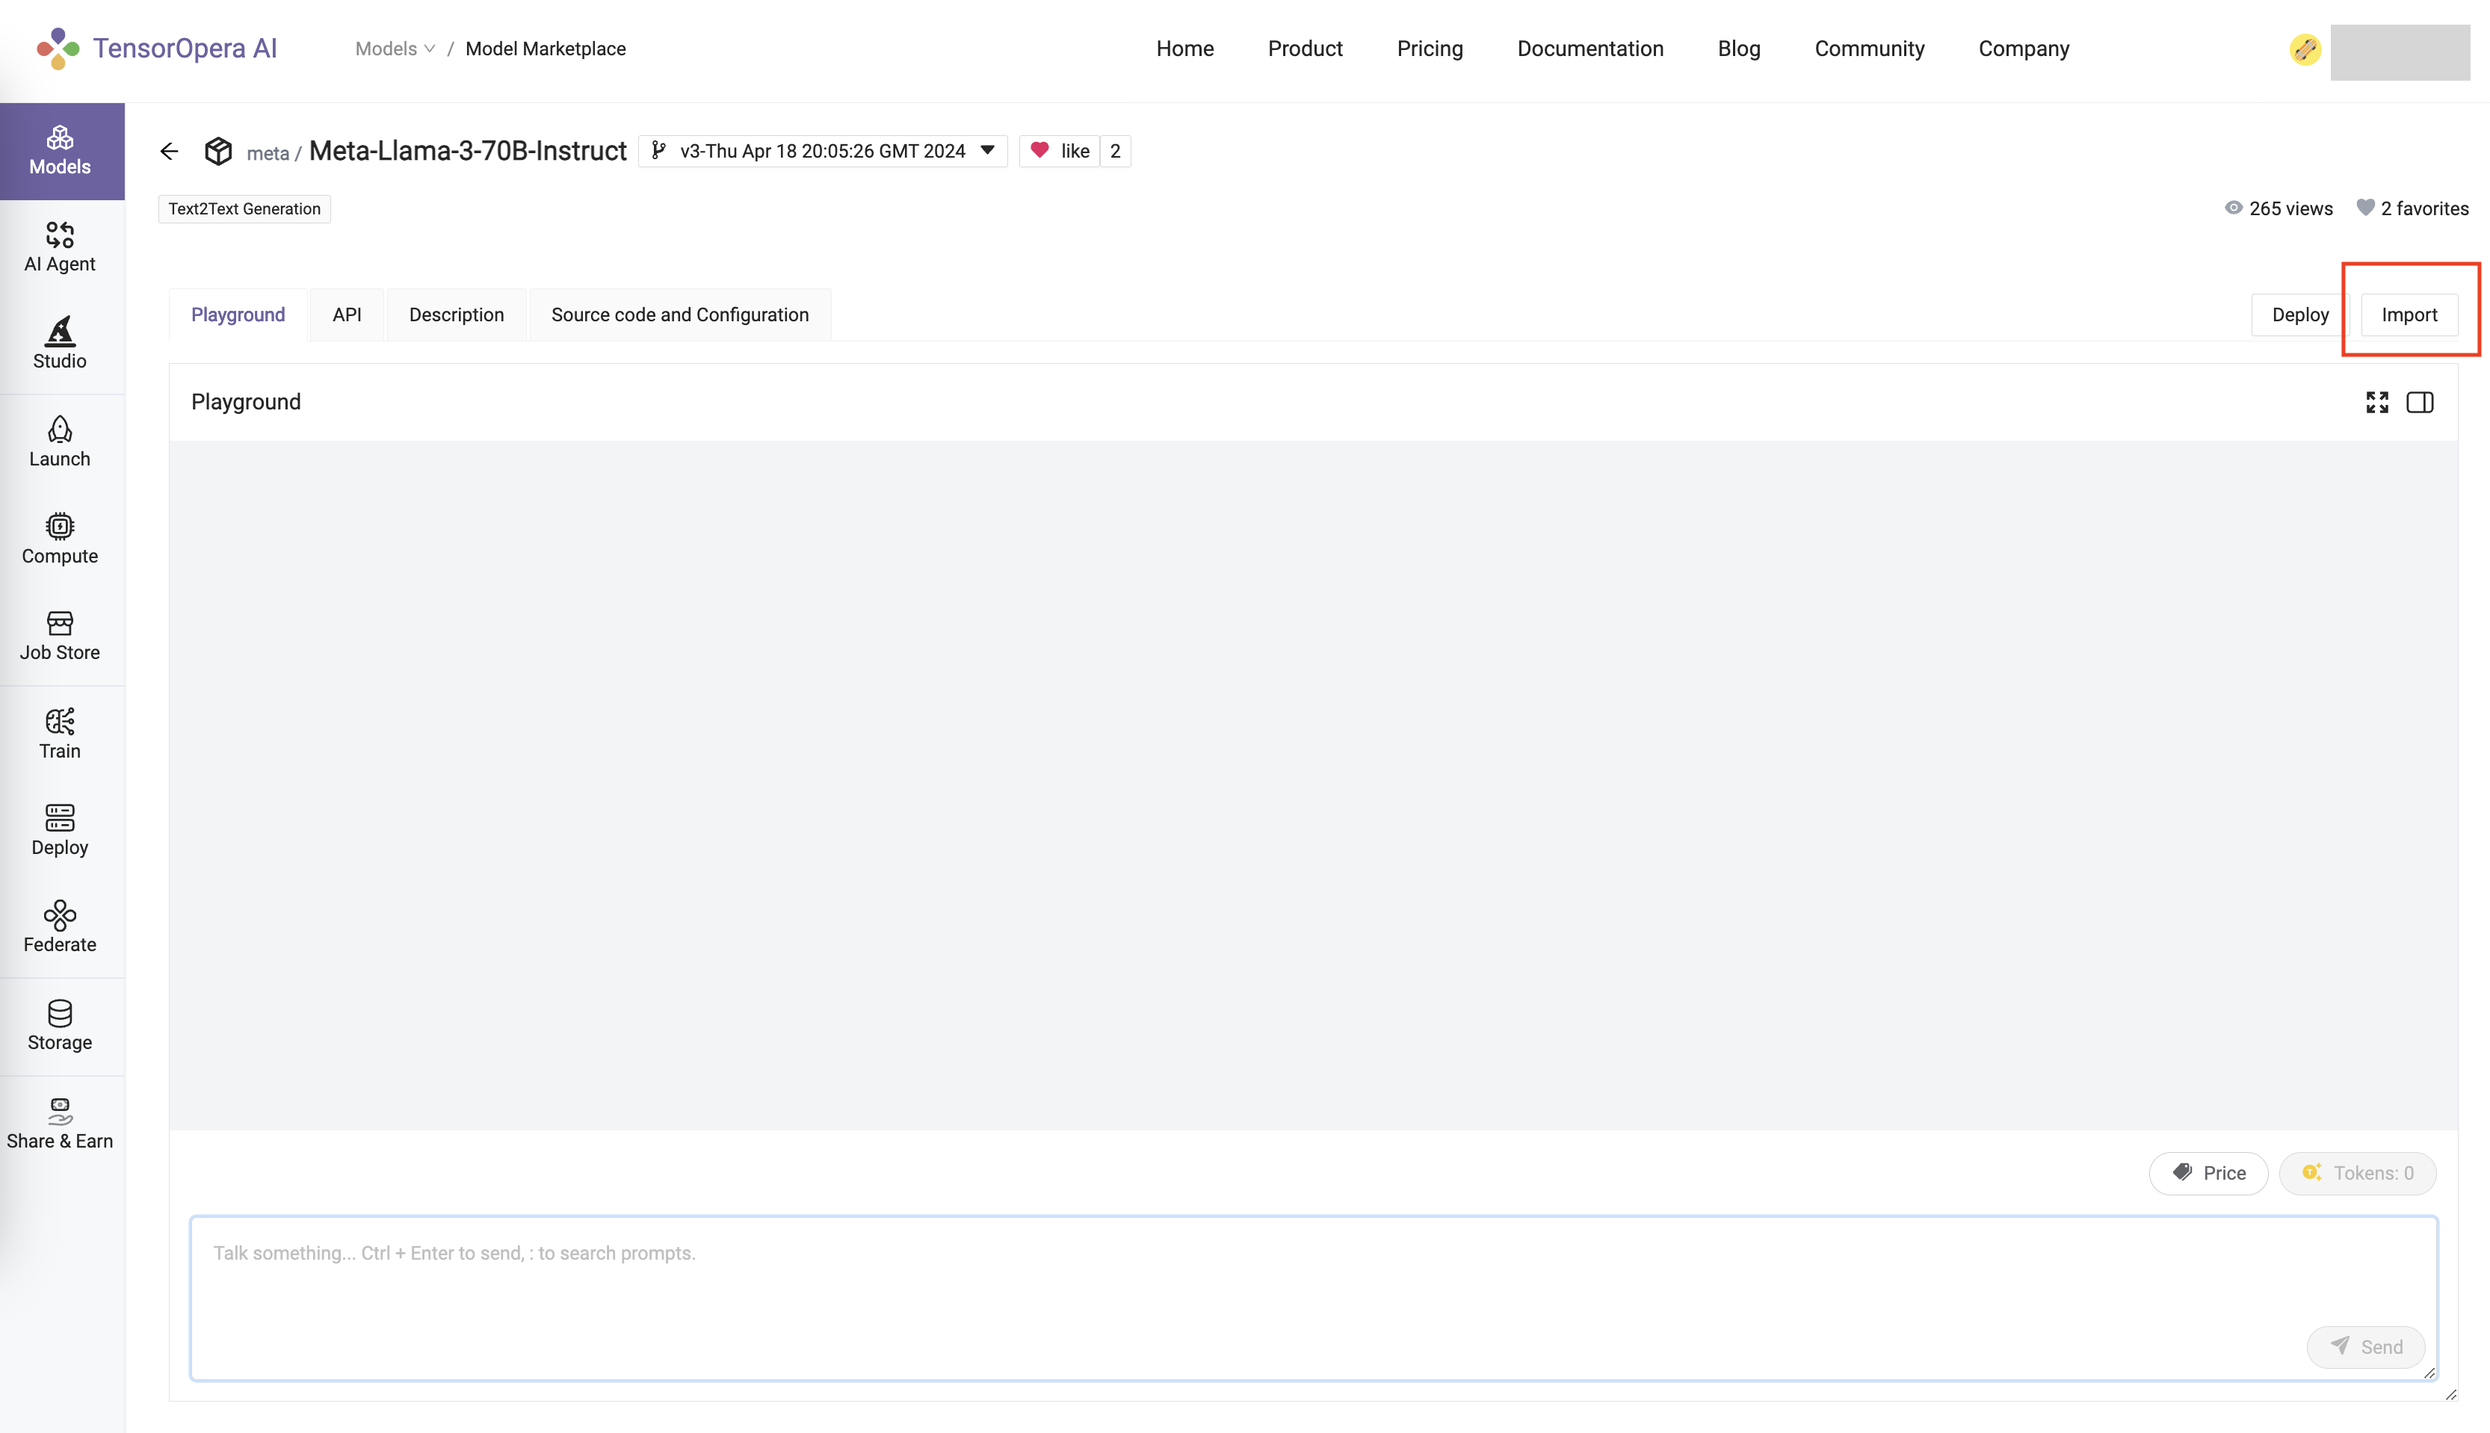
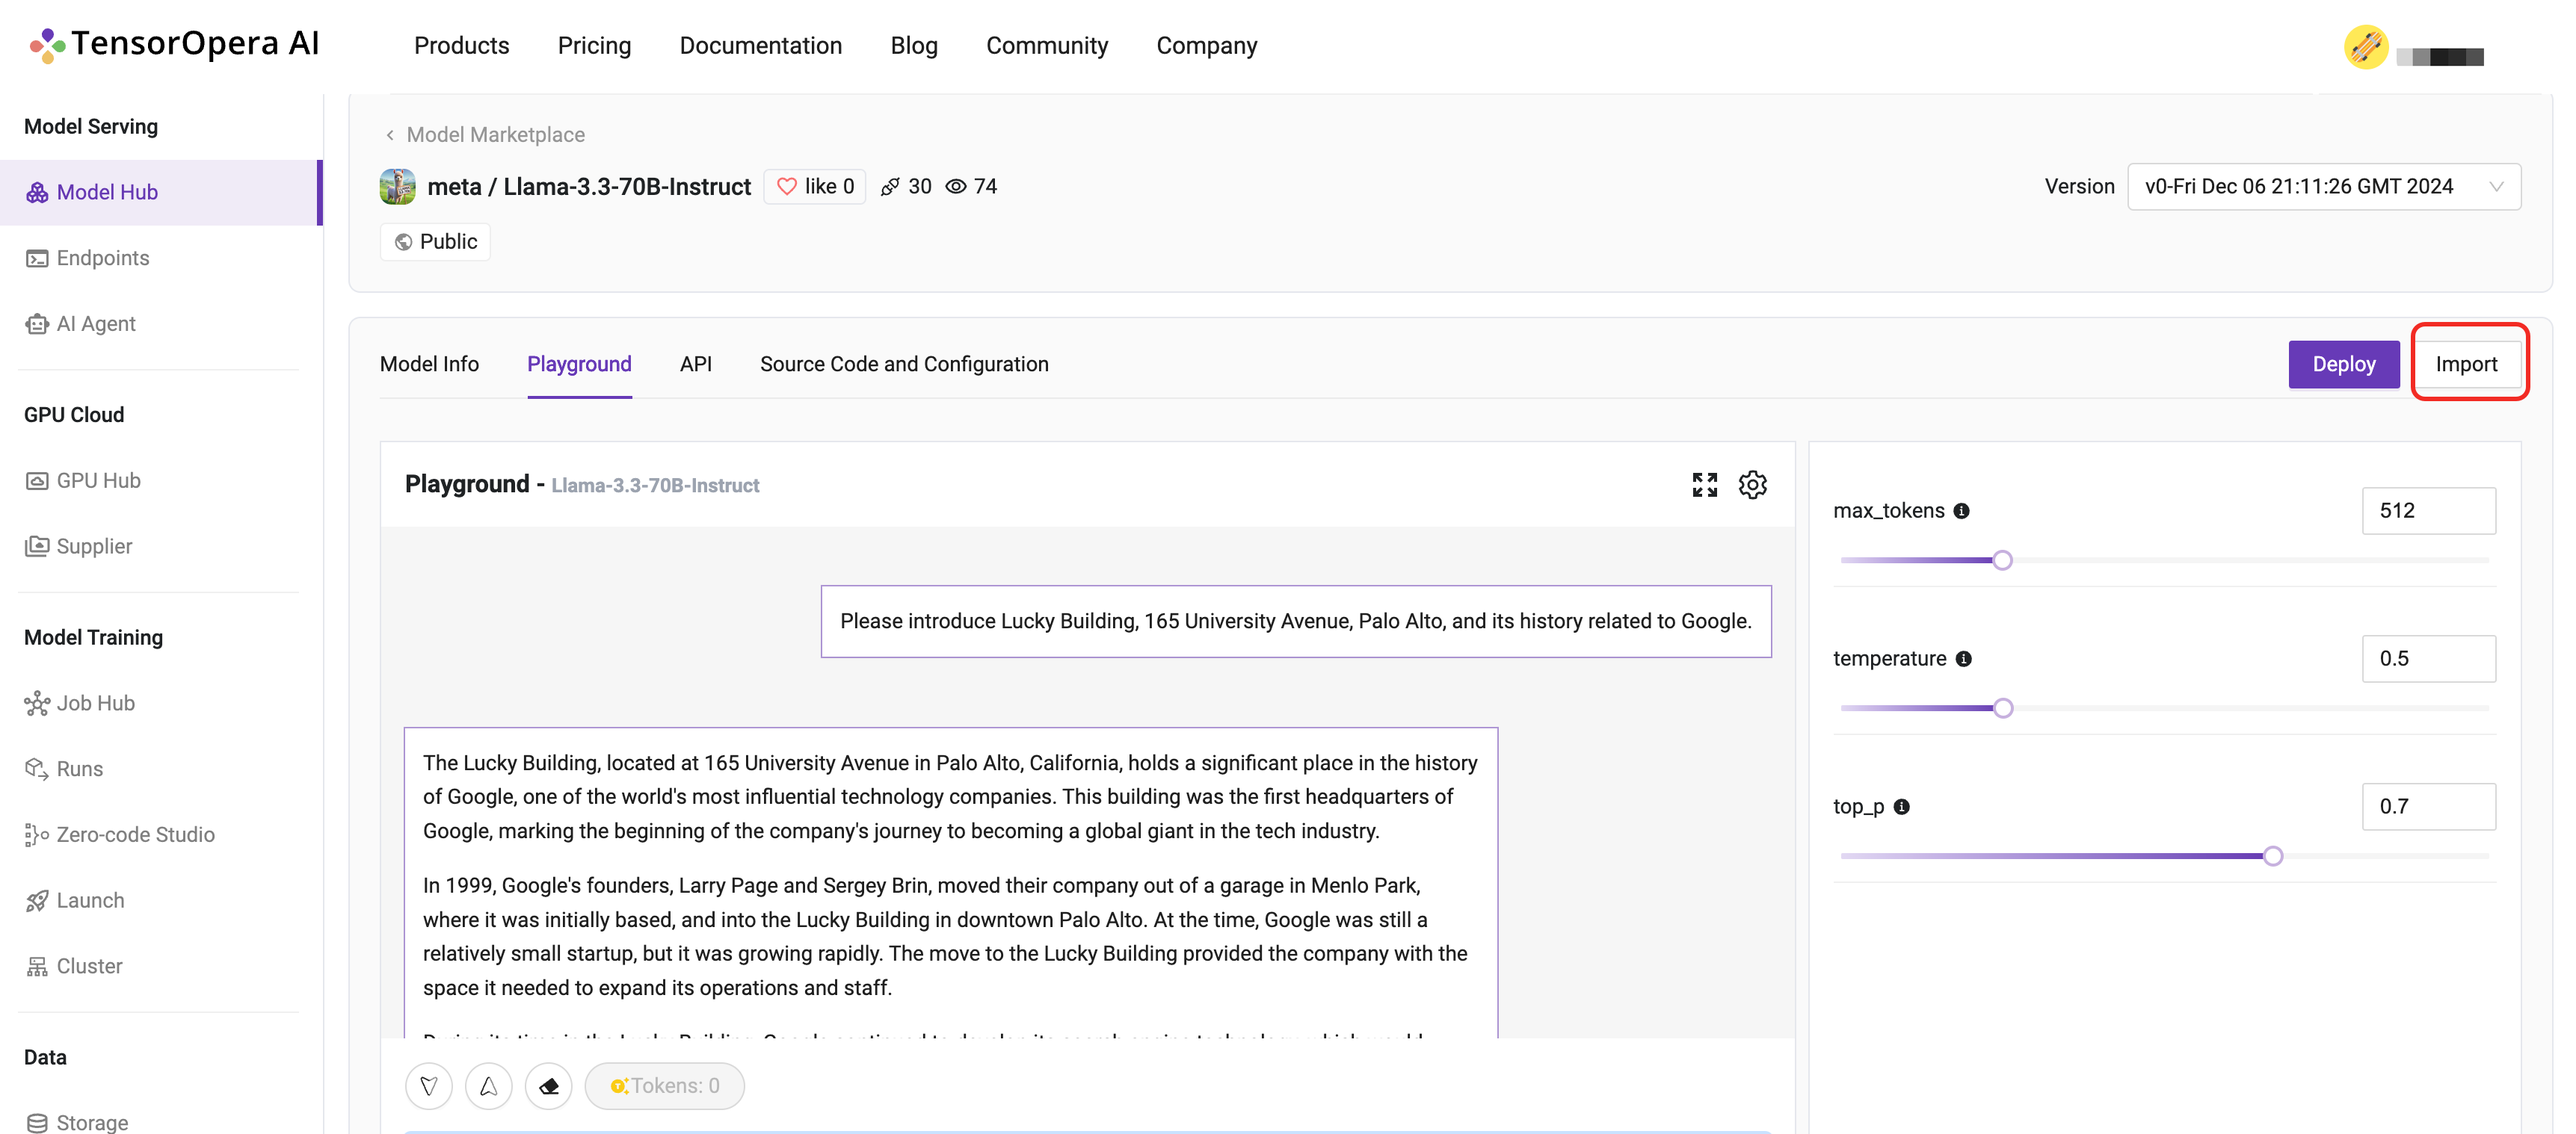
feat: update some of the deploy pictures.

diff --git a/docs/deploy/create_model.md b/docs/deploy/create_model.md
@@ -59,18 +59,17 @@ Inside this class, you need to implement two methods: ` __init__` and `predict`.
 - In the `__init__` method, you need to initialize the model. E.g. load the model checkpoint.
 - In the `predict` method, you need to define how your model will respond to the requests.
 
+  ```python
+  from fedml.serving import FedMLPredictor
 
-    ```python
-    from fedml.serving import FedMLPredictor
+  class MyChatbot(FedMLPredictor):
+      def __init__(self):
+          super().__init__()
 
-    class MyChatbot(FedMLPredictor):
-        def __init__(self):
-            super().__init__()
-
-        def predict(self, request: dict) -> dict:
-            response_text = "Hello, I am a chatbot."
-            return {"generated_text": response_text}
-    ```
+      def predict(self, request: dict) -> dict:
+          response_text = "Hello, I am a chatbot."
+          return {"generated_text": response_text}
+  ```
 
 In the `__main__` function, initialize a child obj with class `MyChatbot`, which you define in the previous step,
 then pass it to `FedMLInferenceRunner` class, finally call its `run` method.
@@ -134,7 +133,7 @@ TensorOpera AI Cloud provides a wide range of pre-trained models for various tas
 
 ![ModelHub.png](pics%2Fpage1%2FModelHub.png)
 
-After you have chosen a model, say `Meta-Llama-3-70B-Instruct` . You can click the `Import` button to deploy the model.
+After you have chosen a model, say `meta/Llama-3.3-70B-Instruct` . You can click the `Import` button to deploy the model.
 
 ![ImportButton.png](pics%2FImportButton.png)
 
